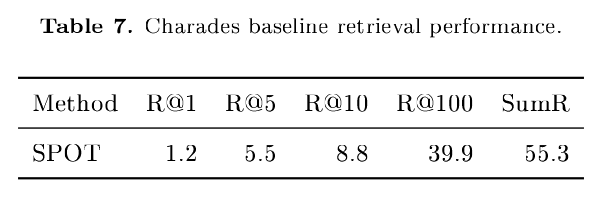
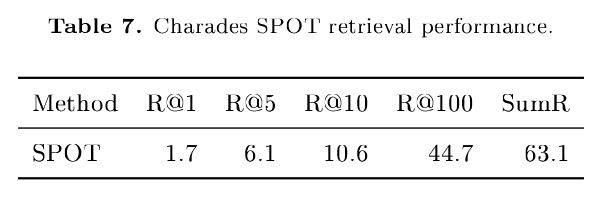
Update Charades SPOT result

diff --git a/individual_tables.tex b/individual_tables.tex
@@ -104,13 +104,13 @@ Qvhighlights & 47.766 \\
 \end{tabular}
 \end{center}
 \or
-\tablecaption{7}{Charades baseline retrieval performance.}
+\tablecaption{7}{Charades SPOT retrieval performance.}
 \begin{center}\small
 \begin{tabular}{l r r r r r}
 \toprule
 Method & R@1 & R@5 & R@10 & R@100 & SumR \\
 \midrule
-SPOT & 1.2 & 5.5 & 8.8 & 39.9 & 55.3 \\
+SPOT & 1.7 & 6.1 & 10.6 & 44.7 & 63.1 \\
 \bottomrule
 \end{tabular}
 \end{center}
